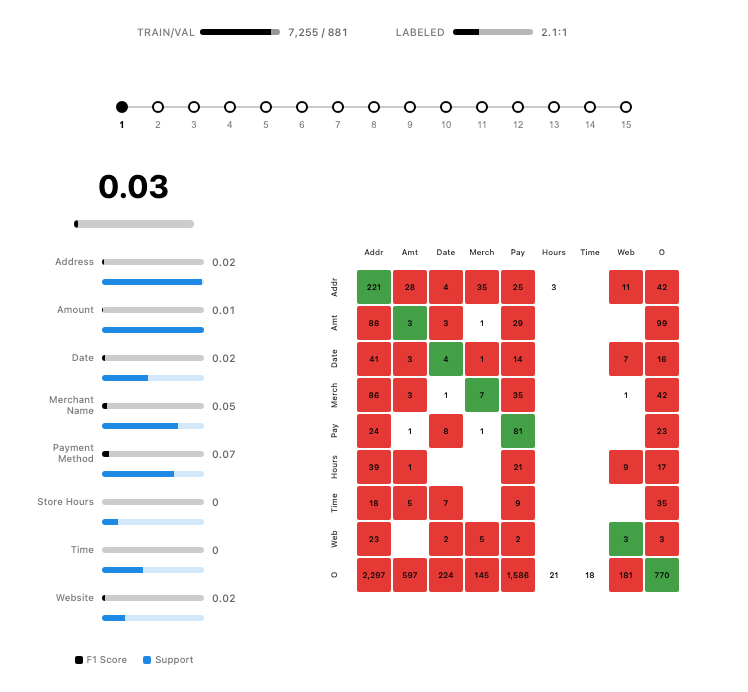
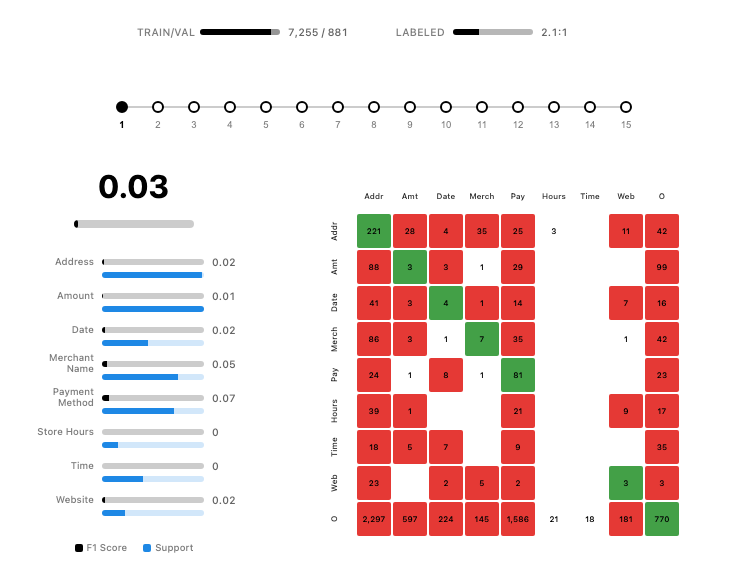
fix: use compact row for distribution bar, update screenshots
The distribution bar row now uses a dedicated .labelDistRow class
(6px/4px height) instead of reusing .labelRow (20px/16px), keeping
inter-label spacing consistent with the original layout.

diff --git a/portfolio/components/ui/Figures/TrainingMetricsAnimation/TrainingMetricsAnimation.module.css b/portfolio/components/ui/Figures/TrainingMetricsAnimation/TrainingMetricsAnimation.module.css
@@ -279,7 +279,14 @@
   text-align: left;
 }
 
-/* Distribution (support) bar */
+/* Distribution (support) bar row — compact, just bar height */
+.labelDistRow {
+  display: flex;
+  align-items: center;
+  gap: 0.5rem;
+  height: 6px;
+}
+
 .labelBarDistribution {
   display: flex;
   flex: 1;
@@ -555,6 +562,11 @@
   .labelBarSegmented {
     height: 4px;
     min-width: 40px;
+  }
+
+  .labelDistRow {
+    gap: 0.35rem;
+    height: 4px;
   }
 
   .labelBarDistribution {

diff --git a/portfolio/components/ui/Figures/TrainingMetricsAnimation/index.tsx b/portfolio/components/ui/Figures/TrainingMetricsAnimation/index.tsx
@@ -320,7 +320,7 @@ const LabelBar: React.FC<LabelBarProps> = ({ label, value, support, maxSupport }
           {spring.displayValue.to((v) => v.toFixed(2))}
         </animated.span>
       </div>
-      <div className={styles.labelRow}>
+      <div className={styles.labelDistRow}>
         <span className={styles.labelName} />
         <div className={styles.labelBarDistribution}>
           <animated.div
